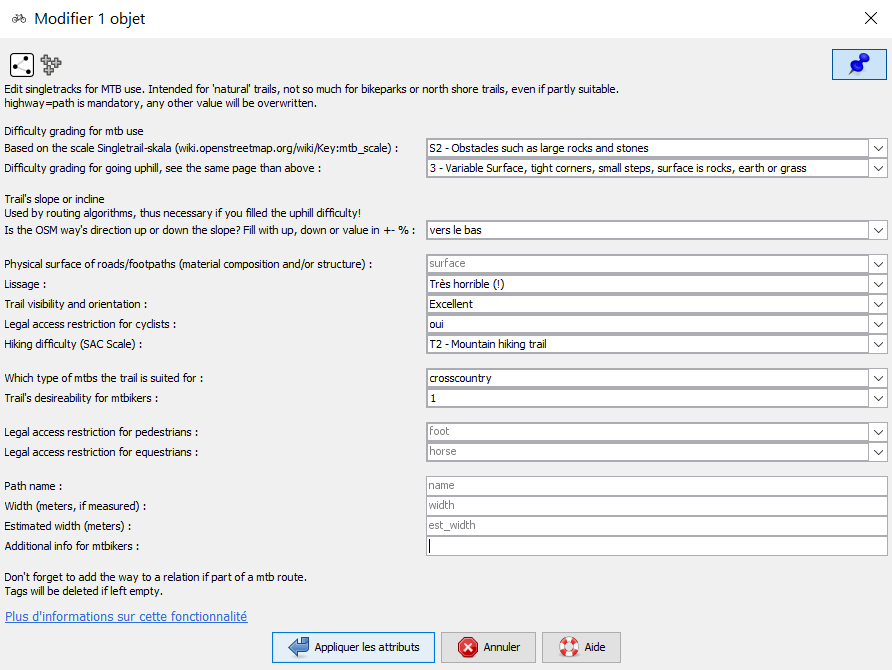
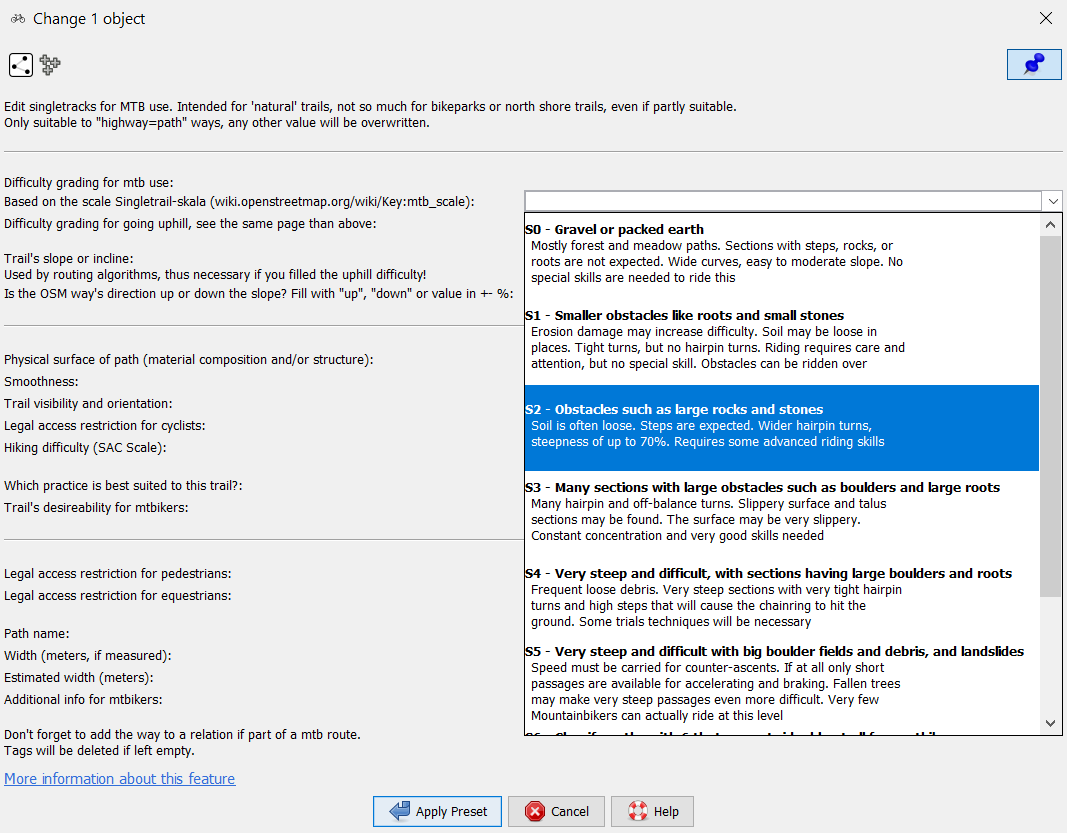
french translation and structure overhaul

diff --git a/README.md b/README.md
@@ -2,7 +2,7 @@
 
 ## MtbSingletrack Preset
 
-I wasn't fully satisfied by all the presets available for tagging trails from a mountainbiker point of view. I wanted one having all the useful tags and a detailed description of their values, because I was tired of having `mtb:scale`, `mtb:scale:uphill`, `smoothness` or `sac_scale` wiki pages open next to JOSM. This preset is only intended to tag singletracks (''highway = path''), as other presets are already perfect for doubletracks.Tags are ordered by importance.
+I wasn't fully satisfied by all the presets available for tagging trails from a mountainbiker point of view. I wanted one having all the useful tags and a detailed description of their values, because I was tired of having `mtb:scale`, `mtb:scale:uphill`, `smoothness` or `sac_scale` wiki pages open next to JOSM. This preset is only intended to tag singletracks ("highway = path"), as other presets are already perfect for doubletracks. Tags are ordered by importance.
 
 Available through the JOSM presets search engine and at this address: https://josm.openstreetmap.de/wiki/Presets/MtbSingletrack
 
